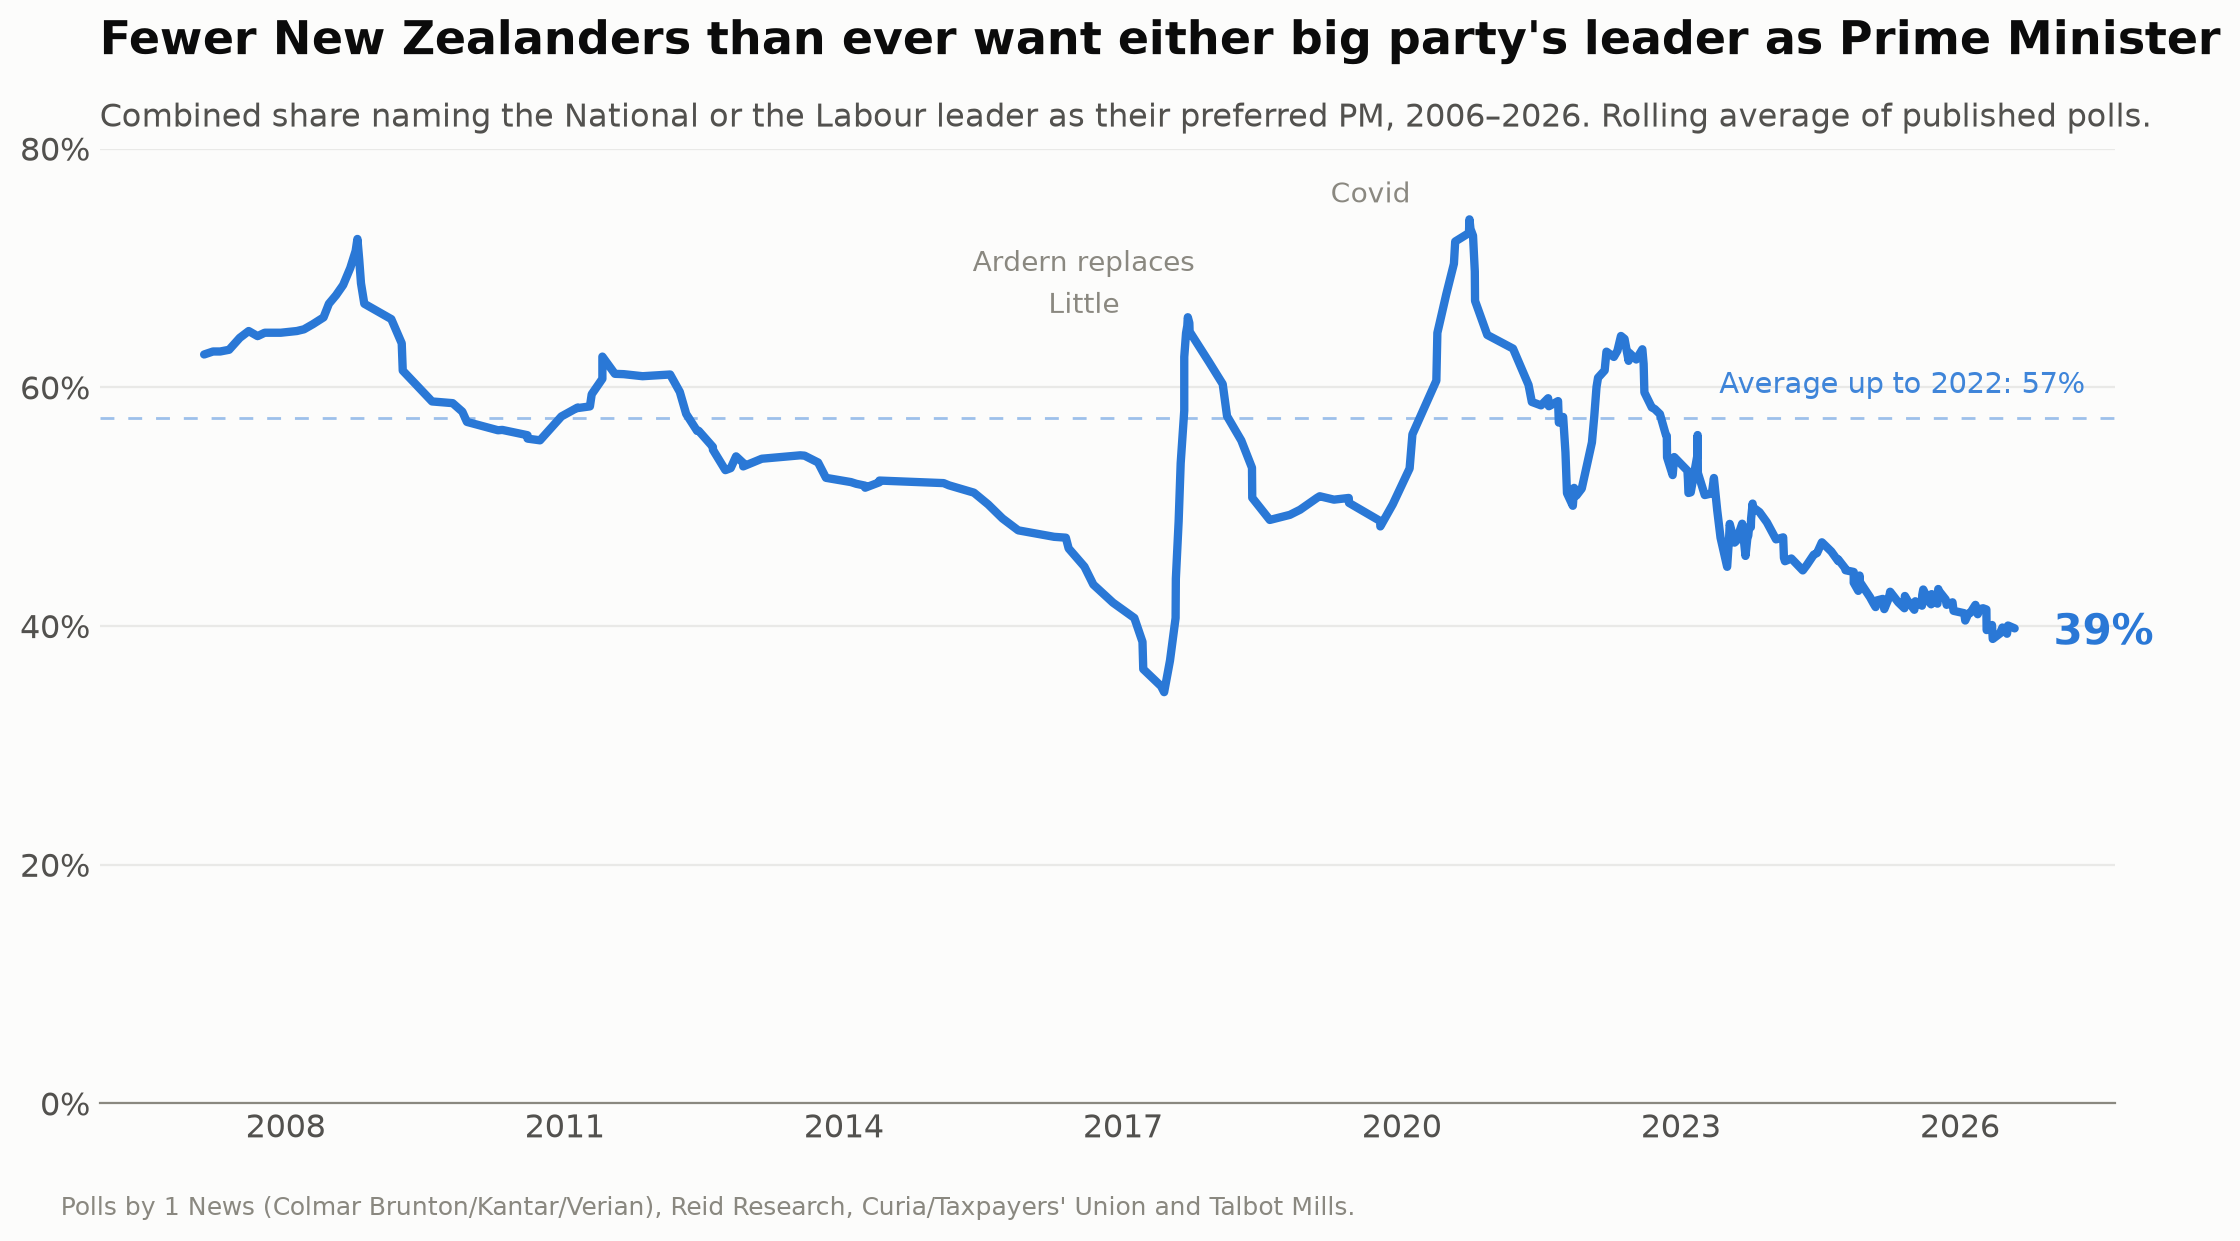
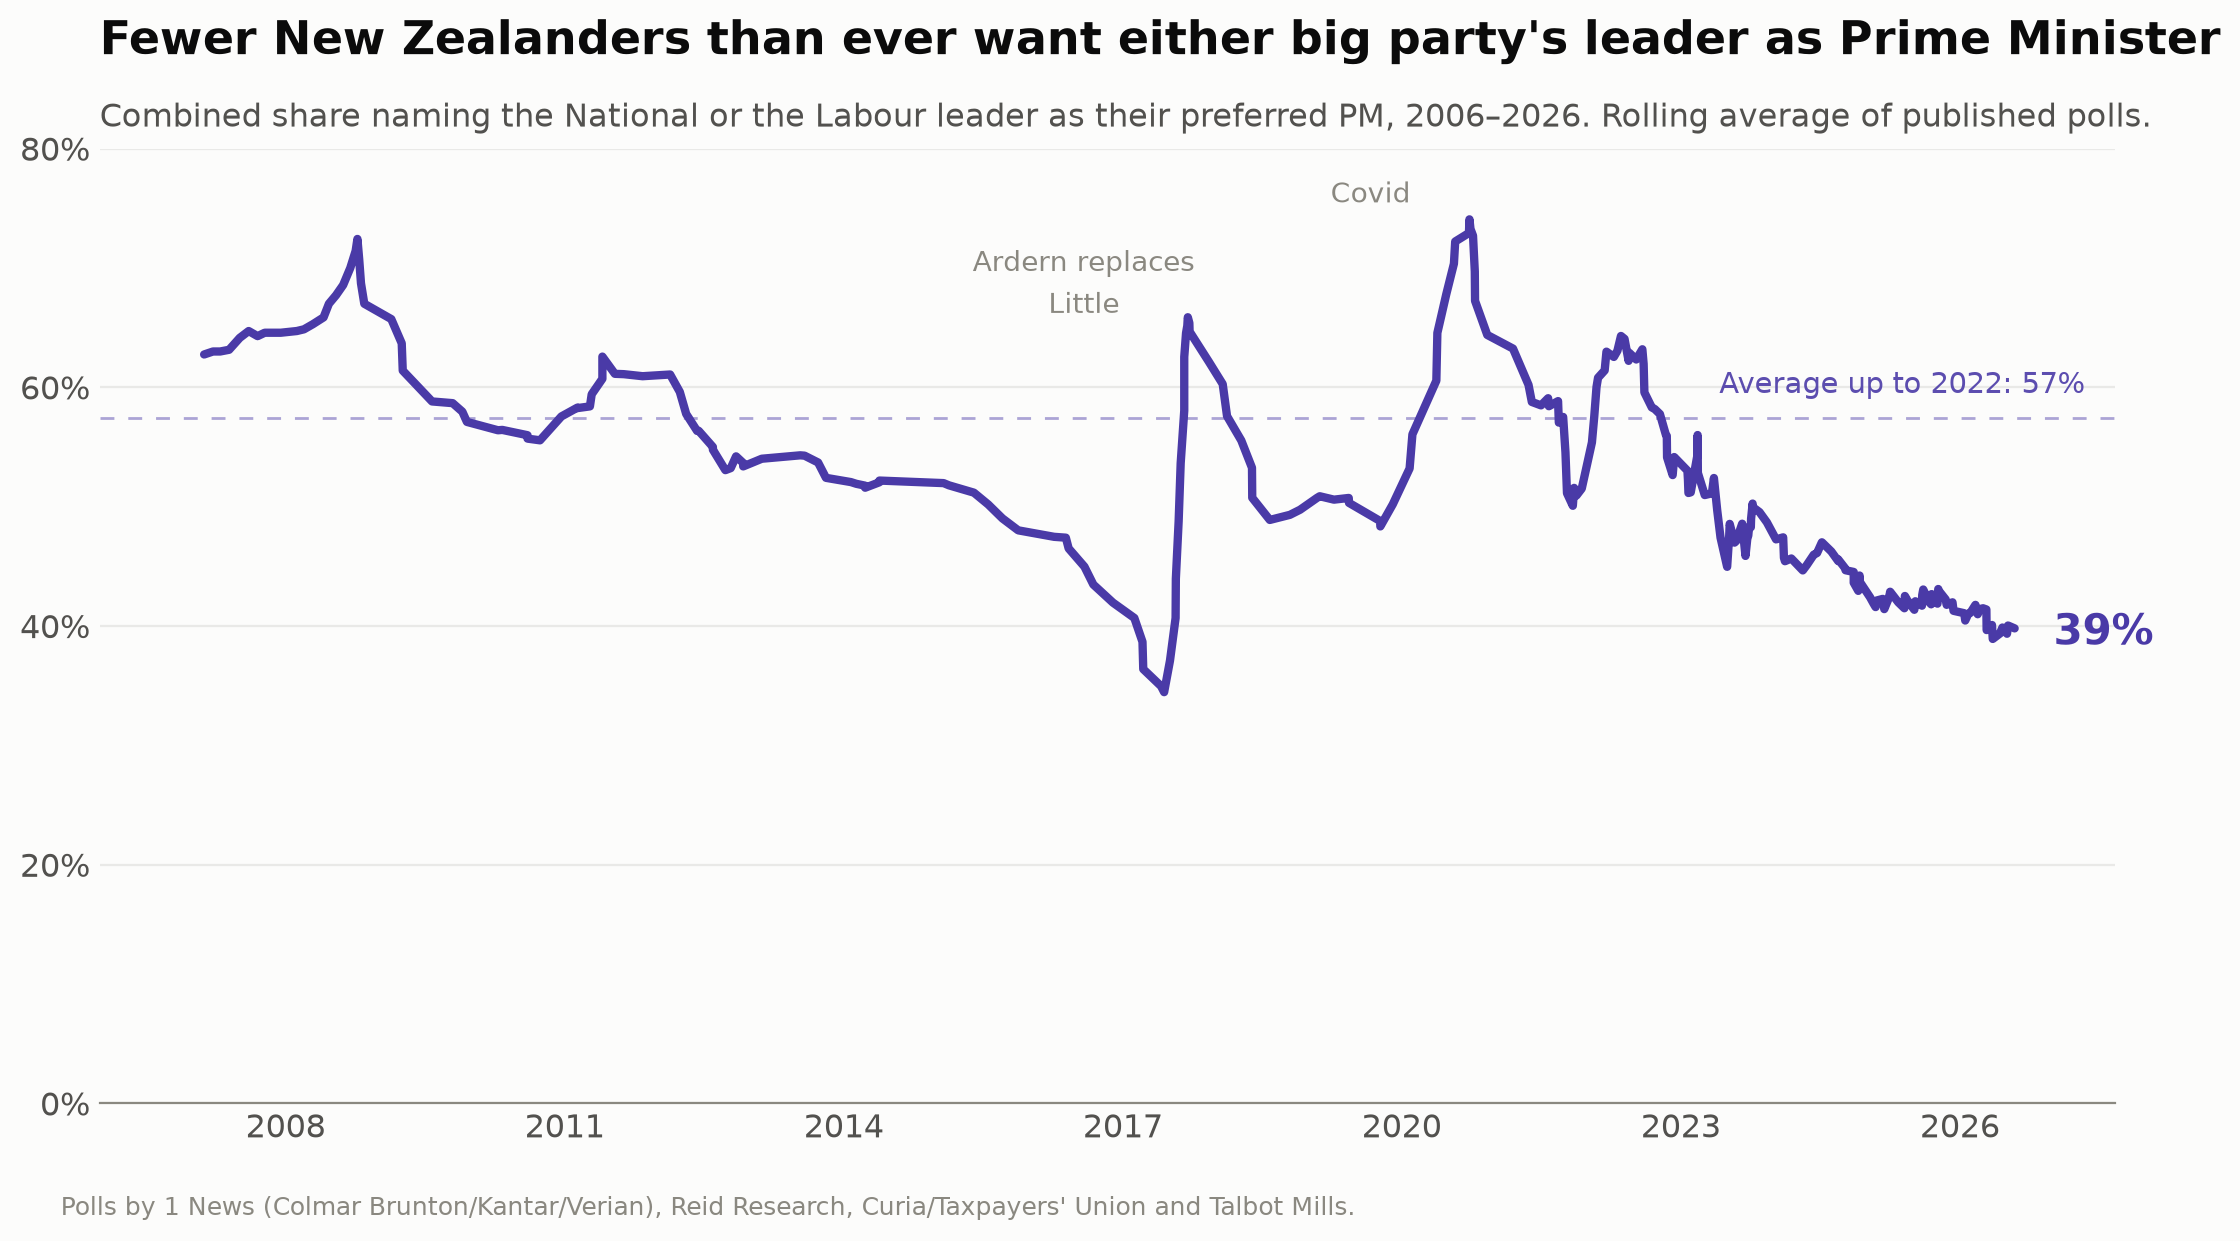
Recolour the preferred-PM line violet
The line combines National and Labour, so drawing it in National blue implied a
party reading it doesn't have. Violet is unclaimed by any current NZ party and
clears 3:1 on the light surface.

diff --git a/pm_majors_graph.py b/pm_majors_graph.py
@@ -22,7 +22,9 @@ from pm_history_graph import LEADER_PARTY
 ROOT = Path(__file__).parent
 
 START = "2006-01-01"
-BLUE = "#2a78d6"  # reference palette, categorical slot 1
+# Deep violet: the line combines National and Labour, so it must not wear
+# either party's colour. No current NZ party claims violet.
+INK = "#4a3aa7"
 
 CORE_HOUSES = {
     "1 News (Colmar Brunton / Kantar / Verian)": ("colmar", "kantar", "verian"),
@@ -79,22 +81,22 @@ def main():
     fig.patch.set_facecolor(SURFACE)
     ax.set_facecolor(SURFACE)
 
-    ax.axhline(baseline, color=BLUE, linewidth=1, linestyle=(0, (5, 5)),
+    ax.axhline(baseline, color=INK, linewidth=1, linestyle=(0, (5, 5)),
                alpha=0.45, zorder=2)
     ax.text(pd.Timestamp("2023-06-01"), baseline + 1.5,
             f"Average up to 2022: {baseline:.0f}%",
-            fontsize=10.5, color=BLUE, alpha=0.9, va="bottom")
+            fontsize=10.5, color=INK, alpha=0.9, va="bottom")
 
     for date, y, text in NOTES:
         ax.annotate(text, xy=(pd.Timestamp(date), y), ha="center", va="top",
                     fontsize=10, color=TEXT_MUTED, linespacing=1.4, zorder=3)
 
-    ax.plot(line.index, line.values, color=BLUE, linewidth=3,
+    ax.plot(line.index, line.values, color=INK, linewidth=3,
             solid_capstyle="round", zorder=4)
     ax.annotate(f"{latest:.0f}%", xy=(series.index[-1], latest),
                 textcoords="offset points", xytext=(14, 0),
                 ha="left", va="center", fontsize=15, fontweight="bold",
-                color=BLUE, zorder=5)
+                color=INK, zorder=5)
 
     ax.set_title("Fewer New Zealanders than ever want either big party's leader "
                  "as Prime Minister",
